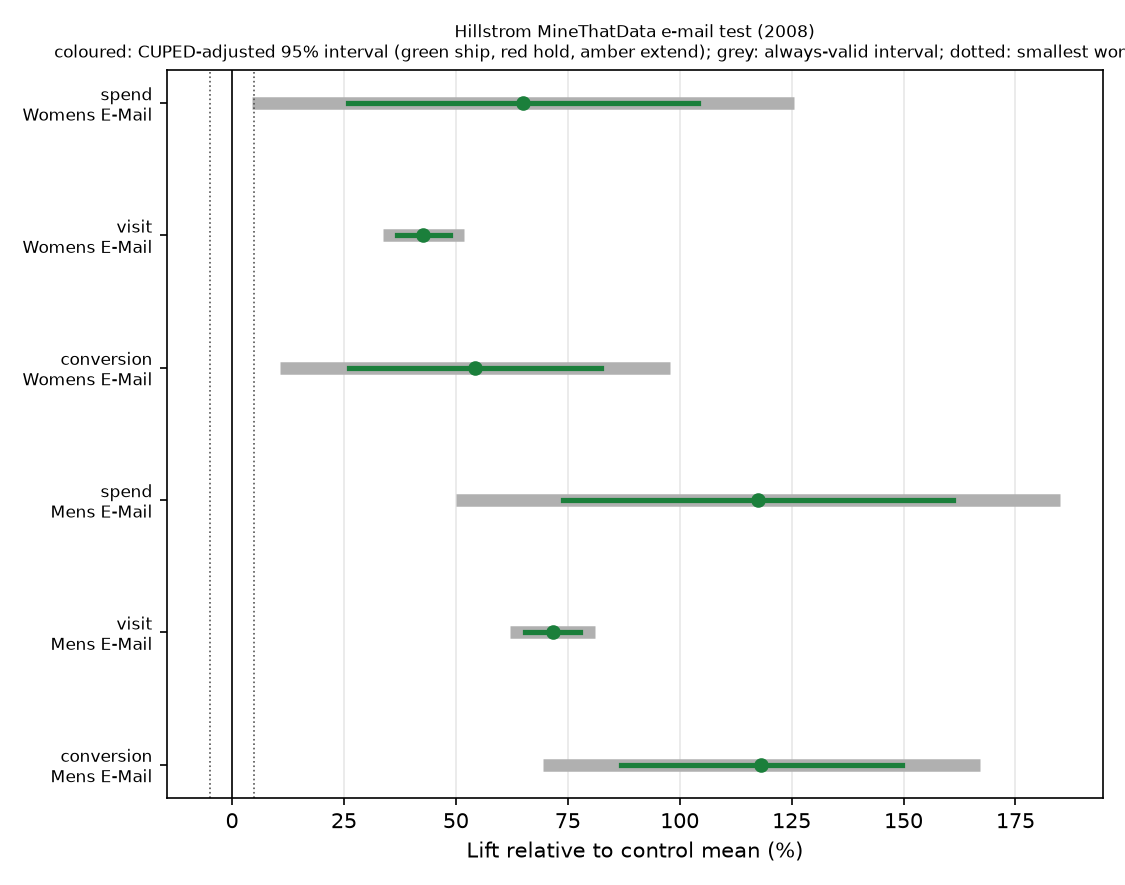
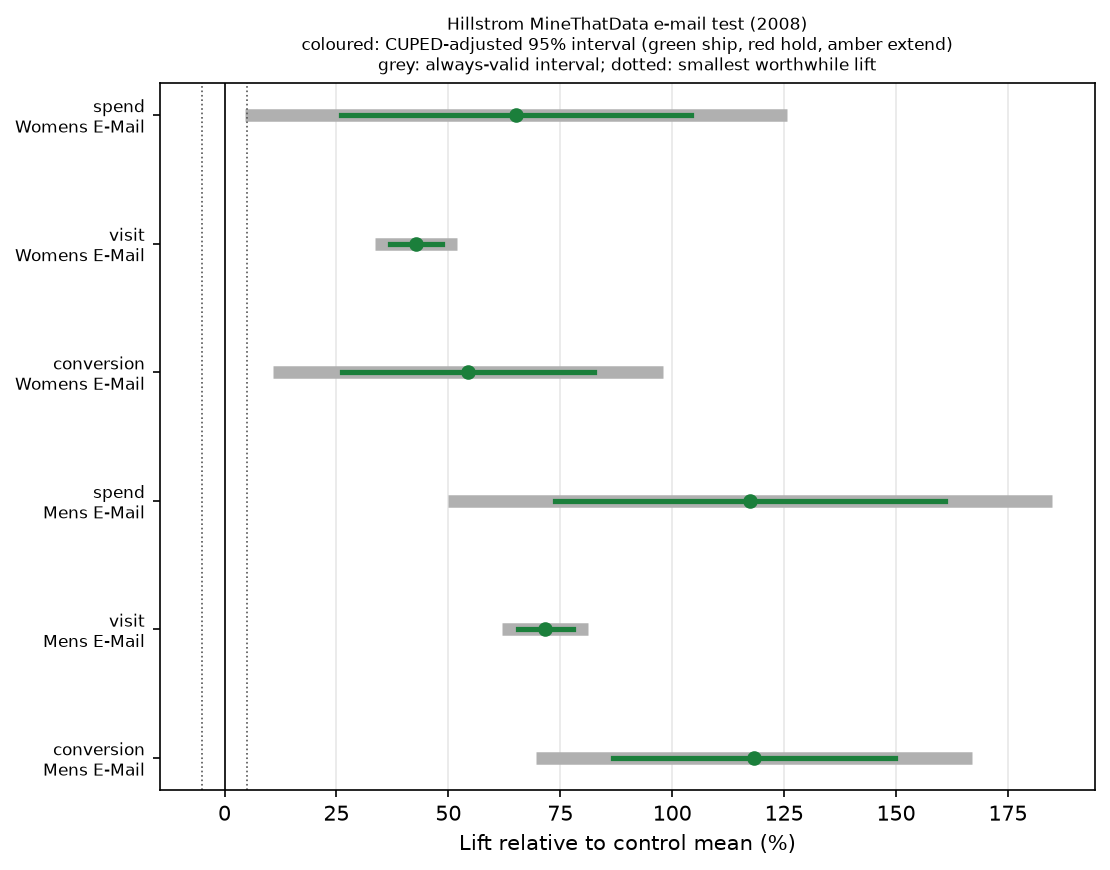
Keep the effects plot title inside the image
Split the legend over two lines, skip the source line when there is
none, and save with a tight bounding box. Regenerated the Hillstrom plot.

diff --git a/causalpilot/report.py b/causalpilot/report.py
@@ -195,15 +195,16 @@ def plot(result: dict, path: str | Path) -> None:
         ax.axvline(sign * s["min_lift"] * 100, color="#555555", linewidth=0.8, linestyle=":")
     ax.set_xlabel("Lift relative to control mean (%)")
     tag = "CUPED-adjusted" if s["covariates"] else "unadjusted"
-    ax.set_title(
-        f"{result.get('source', '')}\n"
-        f"coloured: {tag} {100 * (1 - s['alpha']):.0f}% interval (green ship, red hold, amber extend); "
+    title = [
+        f"coloured: {tag} {100 * (1 - s['alpha']):.0f}% interval (green ship, red hold, amber extend)",
         "grey: always-valid interval; dotted: smallest worthwhile lift",
-        fontsize=8,
-    )
+    ]
+    if result.get("source"):
+        title.insert(0, result["source"])
+    ax.set_title("\n".join(title), fontsize=8)
     ax.grid(axis="x", alpha=0.3)
     fig.tight_layout()
-    fig.savefig(path)
+    fig.savefig(path, bbox_inches="tight")
     plt.close(fig)
 
 
